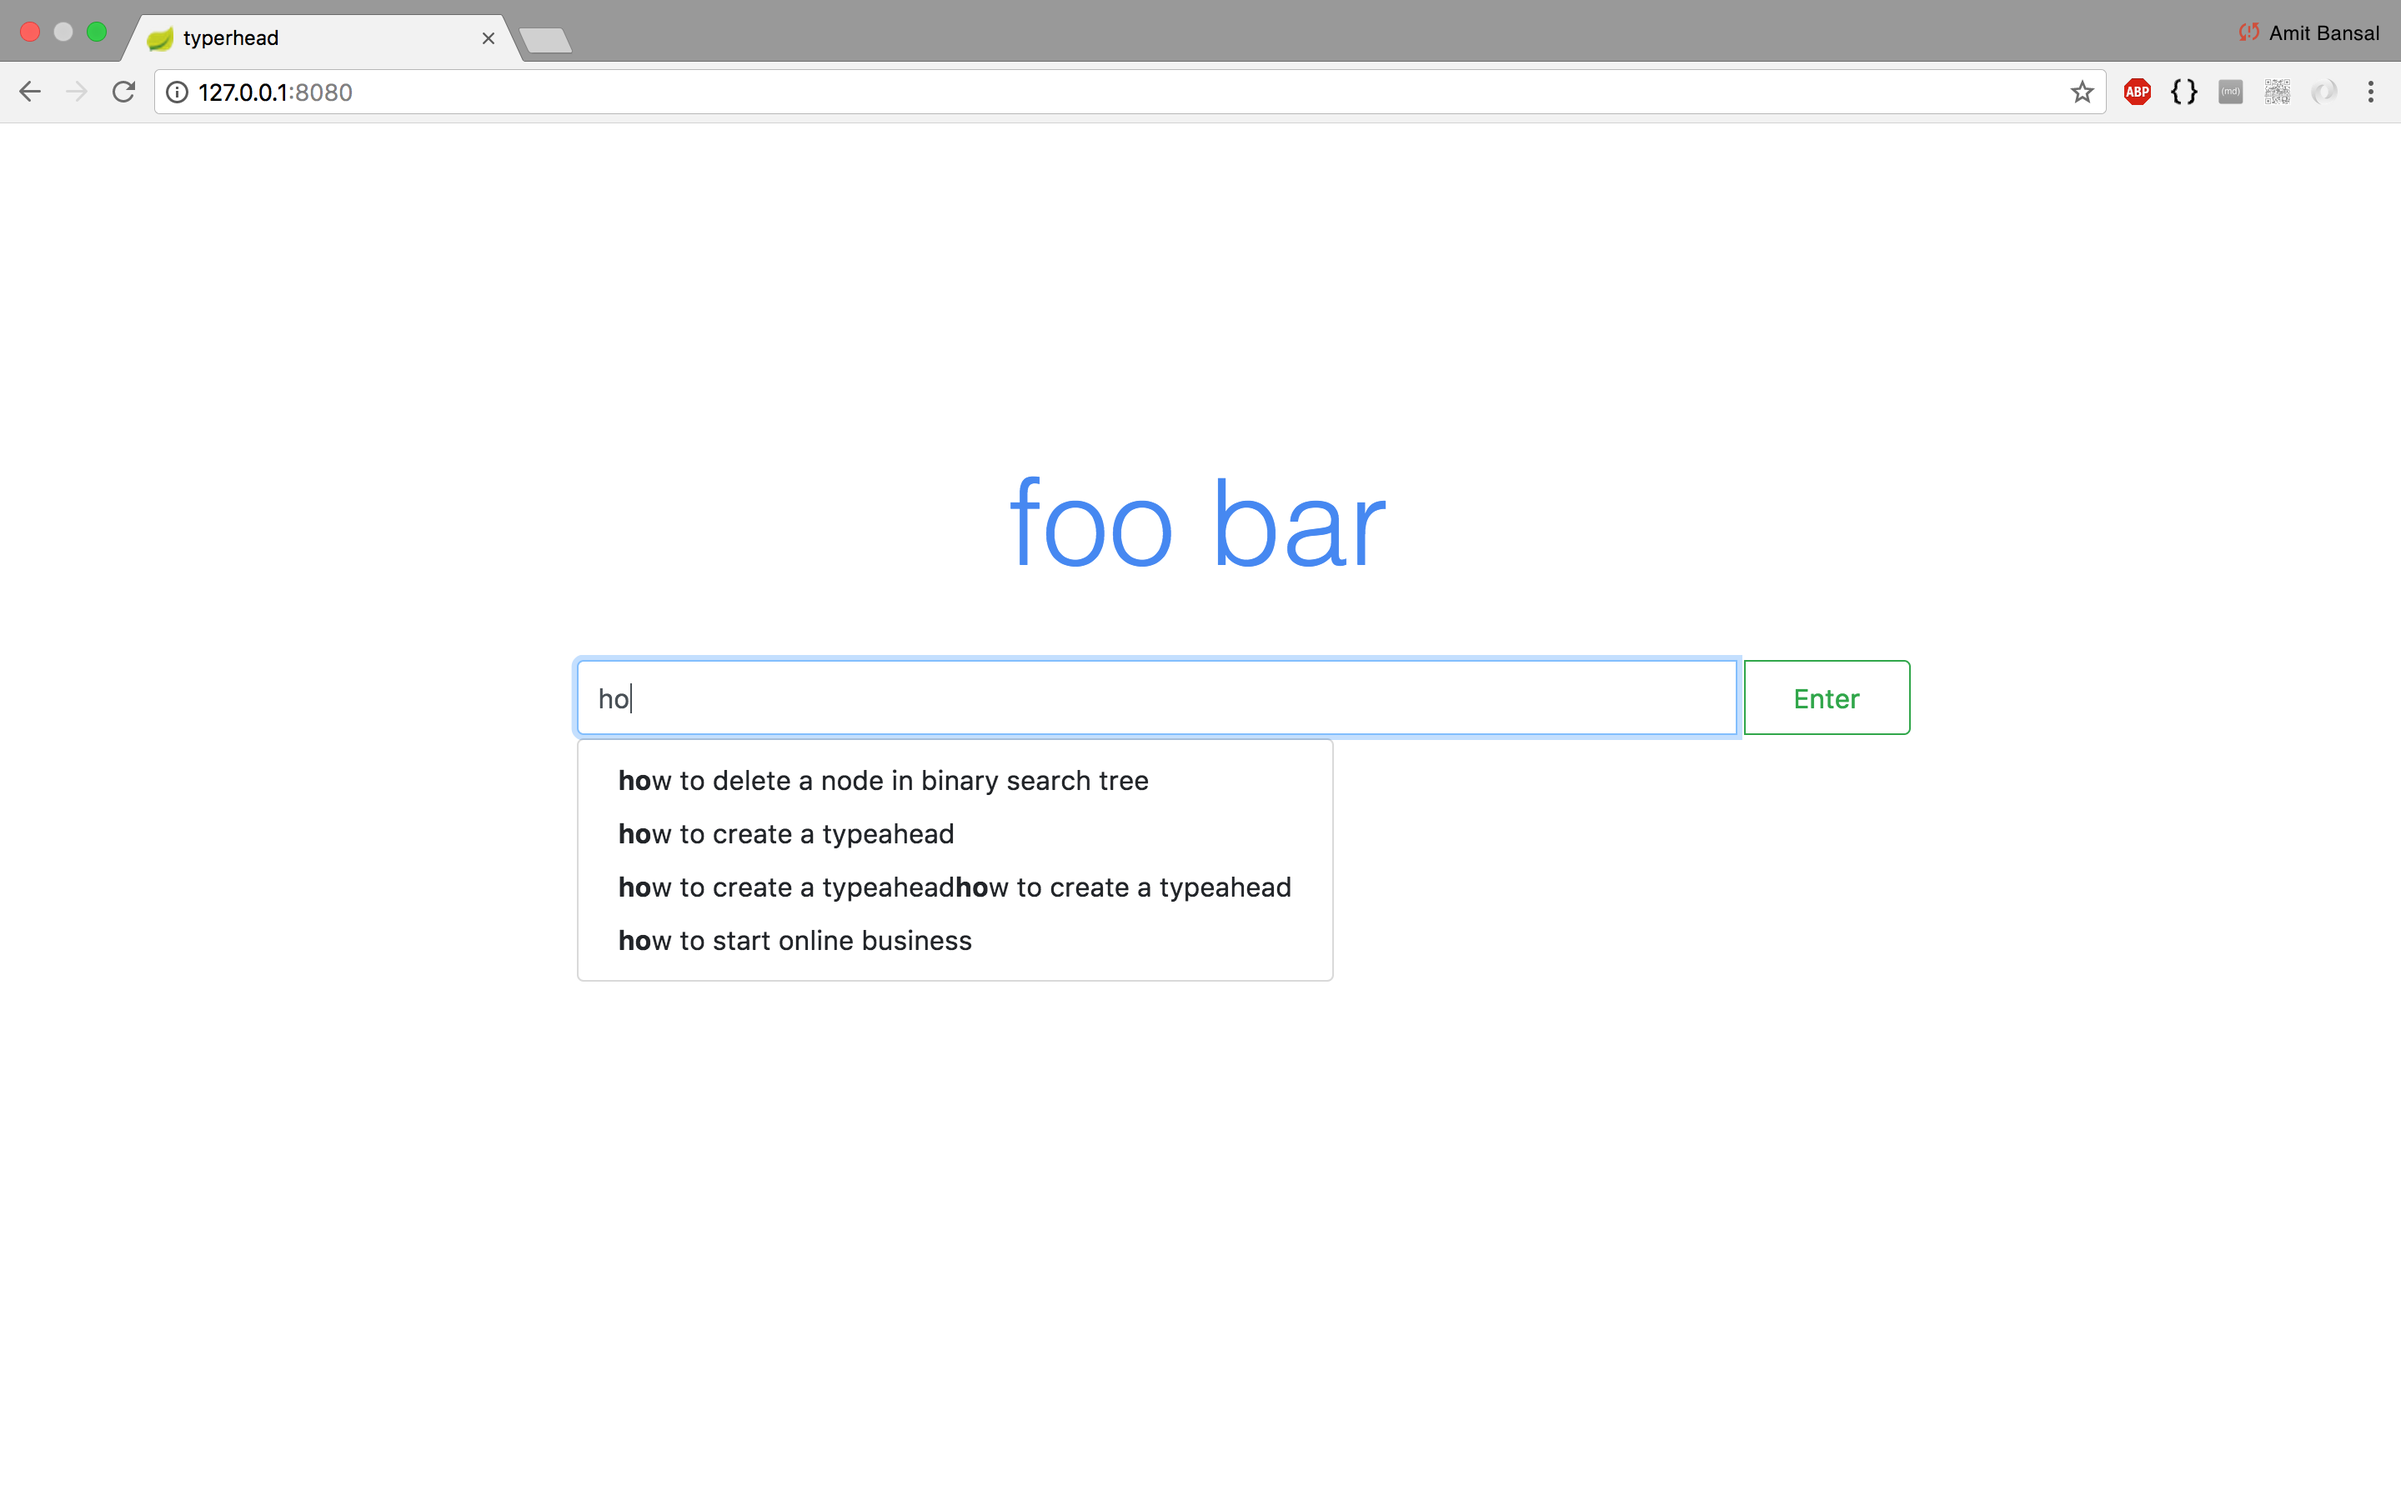
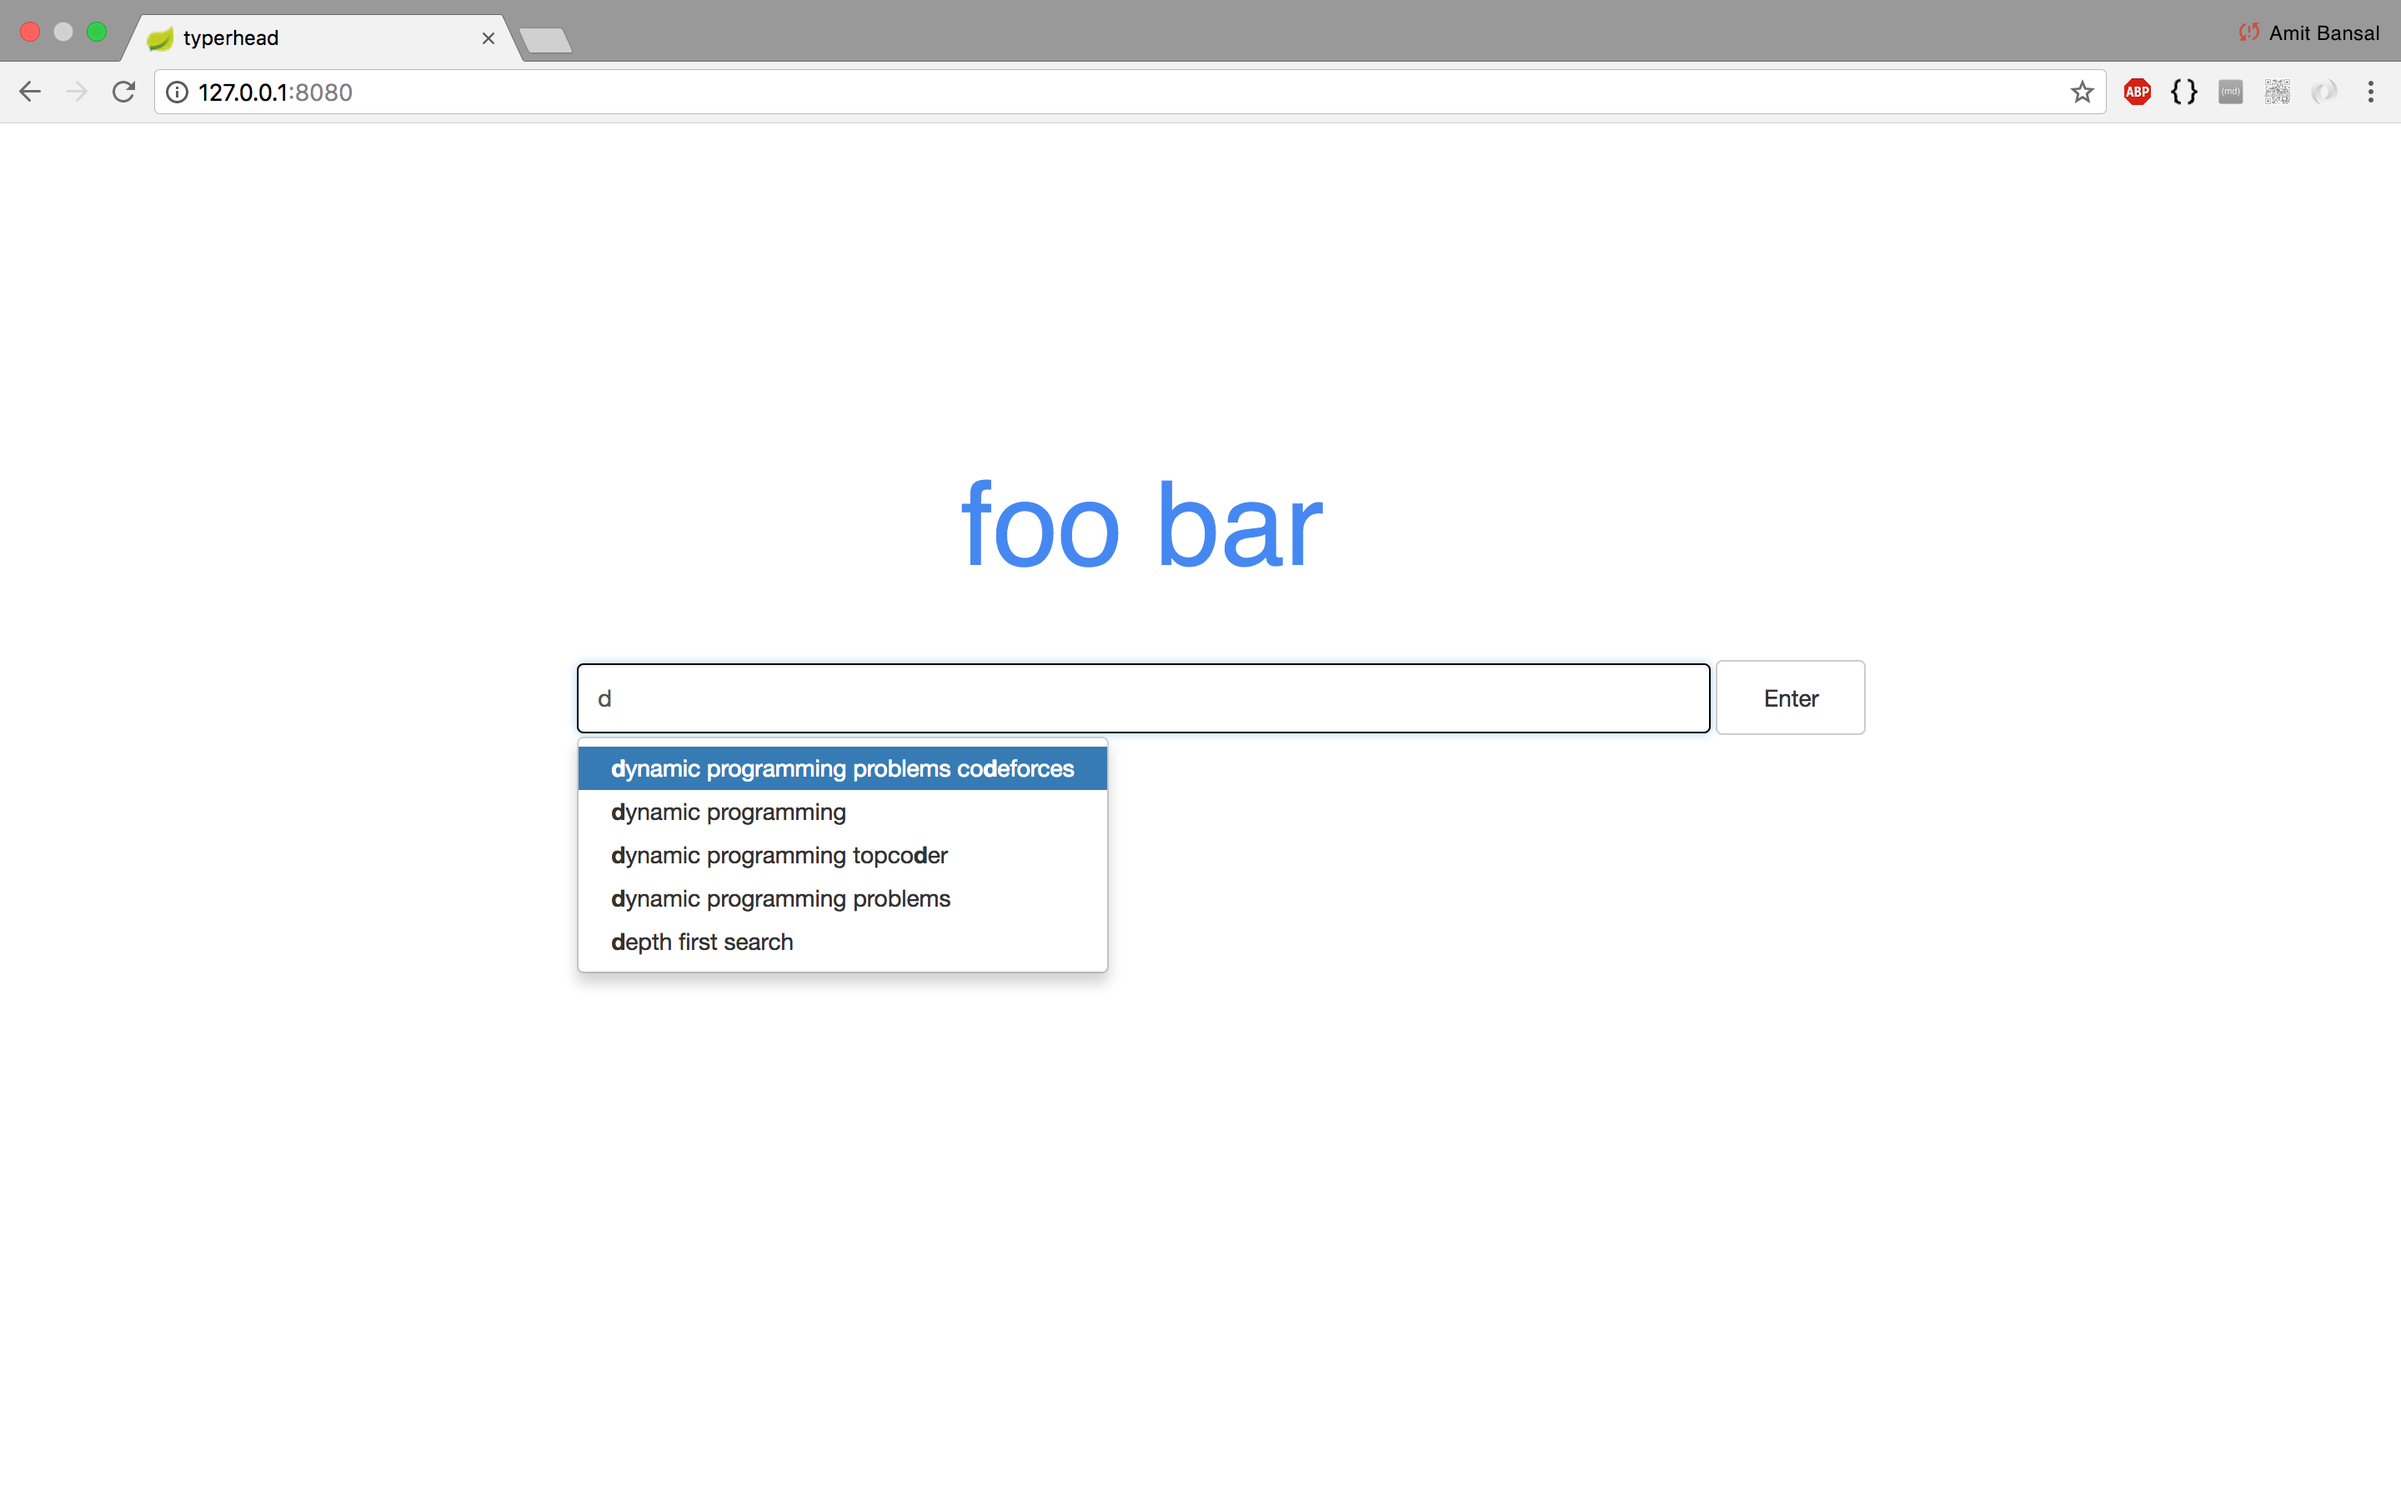
template

Changed region(s): [[0.2188, 0.4356, 0.7812, 0.6533], [0.4062, 0.3111, 0.5938, 0.4044], [0.5, 0.5911, 0.5312, 0.6222]]

diff --git a/src/main/resources/templates/home.html b/src/main/resources/templates/home.html
@@ -4,38 +4,37 @@
 	<title>typerhead</title>
 
  <script src="https://ajax.googleapis.com/ajax/libs/jquery/3.1.0/jquery.min.js"></script>
- <link rel="stylesheet" href="https://maxcdn.bootstrapcdn.com/bootstrap/4.0.0-beta.3/css/bootstrap.min.css" 
-	integrity="sha384-Zug+QiDoJOrZ5t4lssLdxGhVrurbmBWopoEl+M6BdEfwnCJZtKxi1KgxUyJq13dy" crossorigin="anonymous"/>
+ <link rel="stylesheet" href="https://maxcdn.bootstrapcdn.com/bootstrap/3.3.6/css/bootstrap.min.css" /> 
+	
   <script src="https://cdnjs.cloudflare.com/ajax/libs/bootstrap-3-typeahead/4.0.2/bootstrap3-typeahead.min.js"></script>
 
   	
 	<style>
 		h1{
-		position: fixed;
-		top: 24%;
-		left: 42%;
-		font:"Garamond";
-		font-family: 'Archivo Black', sans-serif;
-		color:#4285F4;
+			position:fixed;
+			top: 22%;
+			left: 40%;
+			font:"Garamond";
+			font-family: 'Archivo Black', sans-serif;
+			color:#4285F4;
+			font-size: 70px;
 		}
 		
 		form{
 			position: fixed;
 			top: 39%;
 			left: 24%;
-			width:800px;
 			display: inline;
 			
 		}
-		input{
-			height:45px;
-		}
-		input[type=text]{
+		#input{
 			border: 1px solid black;
     			border-radius: 4px;
+    			width:680px;
+    			height:42px;
 		}
 		button{
-			width:100px;
+			width:90px;
 			height:45px;
 		}
 		</style>
@@ -60,21 +59,12 @@
 </head>
 <body>
 <div>
-<h1 class="display-3" >foo bar</h1>
-</div>
+<h1>foo bar</h1>
 
-<div class="row search">
-  <div class="col-sm-8 col-sm-offset-2">
-    <form role="form" method="POST" >
-            <div class="input-group">
-              <input type="text" id="input" name="qry" autofocus="autofocus" autocomplete="off" class="typerhead form-control input-sm"/>
-              &nbsp;
-              <div class="input-group-append">
-    				<button class="btn btn-outline-success" type="submit">Enter </button>
-  			</div>
-            </div>
-    </form>
-  </div>
 </div>
+    <form class="form-inline" method="POST">
+    		<input type="text" name="qry" autofocus="autofocus" autocomplete="off" class="form-control" id="input" />
+  		<button class="btn btn-default" type="submit">Enter </button>
+	</form>
 </body>
 </html>
